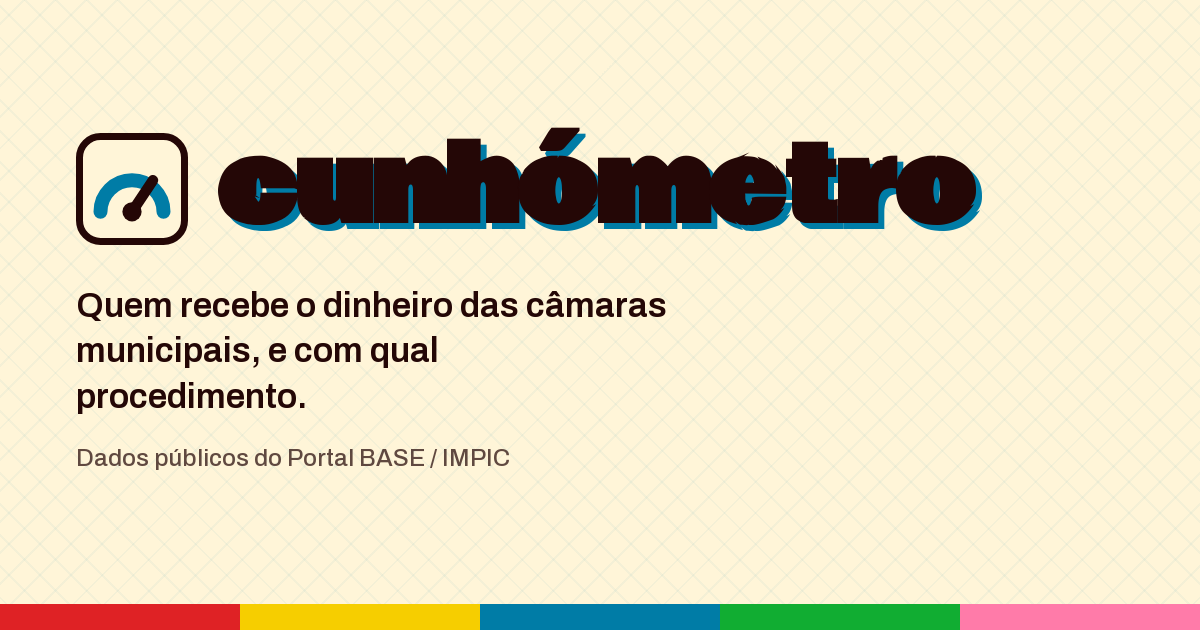
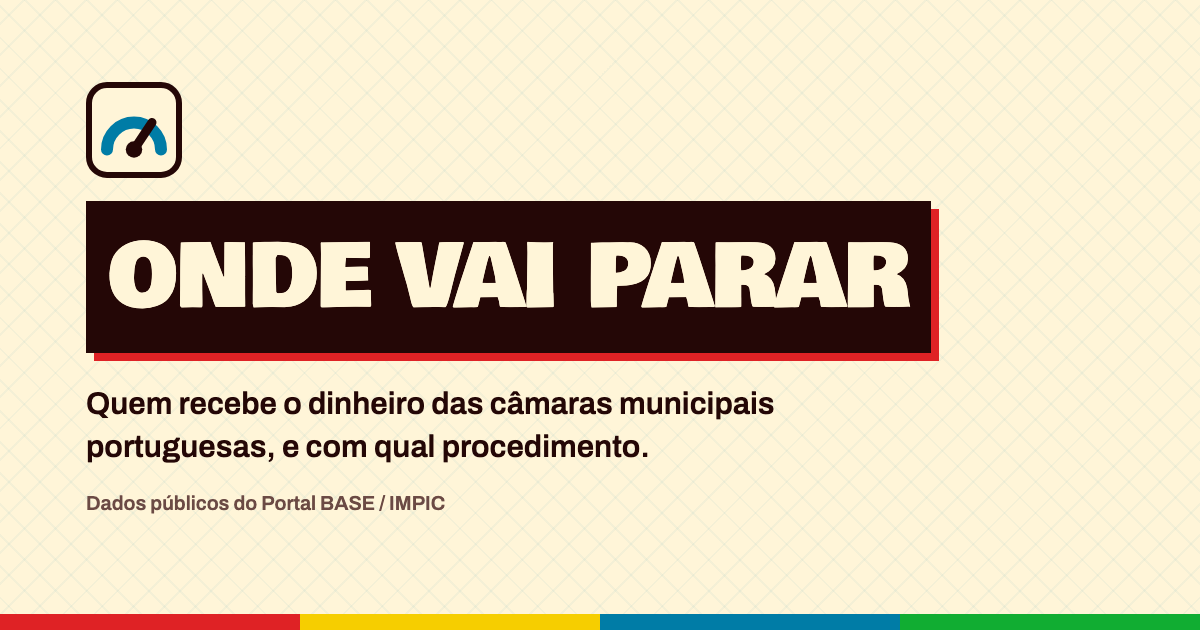
Índice de cunhas, a rebuilt embed, an API cache, and security.txt
The satire index is "Índice de cunhas" now, pairing with "Índice de risco" so
the two read as one family instead of a gauge beside a number. Chip label and
the EN side move with it; the /malandro easter egg route is untouched.

The OG image still said "cunhómetro". It is the one picture every WhatsApp, X,
Slack and LinkedIn unfurl of this site has ever shown, it was the pre-rebrand
file from the first commit, and nothing on the site or in CI could see it.
Rebuilt from the project's own tokens, fonts and favicon: the poster block,
cream on ink with the sangria drop, over the azulejo lattice, closed with the
four-colour stripe. Its source and a build script sit in scripts/og/ so the
next rename is a re-run rather than another two years of the wrong name.
Chrome paints only its viewport, which is ~86px shorter than the window it is
given, so a bare --screenshot left the stripe unpainted; build.mjs renders tall
and crops back to 1200x630.

nginx now caches the API. Measured against production: /rankings/parties 12.2s,
/rankings/districts 11.6s, /municipalities 5.3s, and the data moves once a day
at most. proxy_cache_lock matters more than the cache itself, because fifty
readers arriving at a cold twelve-second aggregate should cost postgres one
query, not fifty. Stale-while-revalidate keeps an expiry off the reader's path.
No purge step on deploy: every request carries the SvelteKit build id, so a new
[…]

diff --git a/scripts/og/og.html b/scripts/og/og.html
@@ -1,0 +1,52 @@
+<!doctype html>
+<!--
+  The source of web/static/og.png, the one image every WhatsApp, X, Slack and
+  LinkedIn unfurl of this site shows. It lives here because the PNG it produces
+  rots silently: the previous one still read "cunhómetro" long after the rebrand,
+  and nothing on the site or in CI could see it. Regenerate it after any change
+  to the name, the palette or the fonts.
+
+      node scripts/og/build.mjs
+
+  Chrome paints only its viewport, which is shorter than the window asked for,
+  so the page is rendered taller than 630 and cropped back. That is what
+  build.mjs is for; a bare --screenshot leaves the stripe unpainted.
+-->
+<html lang="pt-PT"><head><meta charset="utf-8">
+<style>
+@font-face { font-family:'Bowlby One'; src:url('../../web/static/fonts/taiPGmVuC4y96PFeqp8sqomI_L8zYK8.woff2') format('woff2'); font-weight:400; }
+@font-face { font-family:'Archivo'; src:url('../../web/static/fonts/k3kPo8UDI-1M0wlSV9XAw6lQkqWY8Q82sLydOxKsv4Rn.woff2') format('woff2'); font-weight:100 900; }
+:root{ --paper:#fff5d8; --ink:#240706; --ink-soft:#6b4a44;
+       --sangria:#df2225; --amarelo:#f6ce00; --azulejo:#007ca6; --manjerico:#11ad32; }
+*{ margin:0; padding:0; box-sizing:border-box; }
+html,body{ background:var(--paper); }
+.card{
+  position:relative; width:1200px; height:630px; overflow:hidden;
+  background-color:var(--paper);
+  background-image:
+    repeating-linear-gradient(45deg,  rgba(0,124,166,.045) 0 2px, transparent 2px 22px),
+    repeating-linear-gradient(-45deg, rgba(0,124,166,.045) 0 2px, transparent 2px 22px);
+  font-family:'Archivo',sans-serif; color:var(--ink);
+  display:flex; flex-direction:column; justify-content:center; padding:0 86px 34px; }
+.mark{ width:96px; height:96px; margin-bottom:34px; }
+.poster{ line-height:1.52; filter:drop-shadow(.1em .1em 0 var(--sangria));
+         font-family:'Bowlby One',sans-serif; font-size:86px; letter-spacing:-.01em; }
+.poster span{ display:inline; background:var(--ink); color:var(--paper);
+              -webkit-box-decoration-break:clone; box-decoration-break:clone;
+              padding:.1em .26em; text-transform:uppercase; }
+.sub{ margin-top:40px; font-size:31px; font-weight:600; line-height:1.4; max-width:880px; }
+.src{ margin-top:22px; font-size:20px; font-weight:600; color:var(--ink-soft); }
+.stripe{ position:absolute; left:0; right:0; bottom:0; height:16px; display:flex; }
+.stripe b{ flex:1; }
+.stripe b:nth-child(1){ background:var(--sangria); }
+.stripe b:nth-child(2){ background:var(--amarelo); }
+.stripe b:nth-child(3){ background:var(--azulejo); }
+.stripe b:nth-child(4){ background:var(--manjerico); }
+</style></head>
+<body><div class="card">
+  <img class="mark" src="../../web/static/favicon.svg" alt="">
+  <div class="poster"><span>Onde Vai Parar</span></div>
+  <p class="sub">Quem recebe o dinheiro das câmaras municipais portuguesas, e com qual procedimento.</p>
+  <p class="src">Dados públicos do Portal BASE / IMPIC</p>
+  <div class="stripe"><b></b><b></b><b></b><b></b></div>
+</div></body></html>

diff --git a/web/src/lib/messages.ts b/web/src/lib/messages.ts
@@ -242,7 +242,7 @@ const PT: Record<string, string> = {
 	// to say what the page holds without quoting a single figure: these files are
 	// rewritten on deploy and never again.
 	'muni.prerenderSections':
-		'Esta página reúne, para {name}: o índice de risco e o Malandrómetro, o mapa do dinheiro por concelho, a rede entre a câmara e as empresas que lhe ganham trabalho, a lista de fornecedores, as estatísticas por ano e por tipo de trabalho, e todos os contratos um a um.',
+		'Esta página reúne, para {name}: o índice de risco e o índice de cunhas, o mapa do dinheiro por concelho, a rede entre a câmara e as empresas que lhe ganham trabalho, a lista de fornecedores, as estatísticas por ano e por tipo de trabalho, e todos os contratos um a um.',
 	'muni.tab.overview': 'Visão geral',
 	'muni.tab.map': 'Mapa',
 	'muni.tab.network': 'Rede',
@@ -275,13 +275,13 @@ const PT: Record<string, string> = {
 	'muni.riskIndex': 'Índice de risco',
 	'muni.riskCaption':
 		'Média dos {n} indicadores mensuráveis neste período, todos em percentagem do dinheiro.',
-	'muni.satireIndex': 'Malandrómetro',
+	'muni.satireIndex': 'Índice de cunhas',
 	'muni.satireCaption':
 		'Os mesmos indicadores, mas com os mais reveladores a pesar mais: concursos com um só concorrente, dinheiro concentrado em poucas empresas, ajuste direto, contratos encostados ao limite e dinheiro a empresas novas.',
 	'muni.units':
 		'Dá para {bifanas} bifanas, ou {salarios} salários mínimos anuais.',
 	'muni.chipRisk': 'risco',
-	'muni.chipSatire': 'malandrómetro',
+	'muni.chipSatire': 'cunhas',
 	'muni.indicators': 'Indicadores',
 	'muni.whoGotMost': 'Quem recebeu mais',
 	'muni.groupBy': 'Agrupar por',
@@ -951,12 +951,12 @@ const EN: Record<string, string> = {
 	'muni.riskIndex': 'Risk index',
 	'muni.riskCaption':
 		'The average of the {n} indicators measurable in this period, all of them as a share of the money.',
-	'muni.satireIndex': 'Favour-meter',
+	'muni.satireIndex': 'Favours index',
 	'muni.satireCaption':
 		'The same indicators, with the most telling ones weighing more: tenders with a single bidder, money concentrated in few companies, direct awards, contracts hugging a ceiling, and money to brand new companies.',
 	'muni.units': 'That buys {bifanas} pork sandwiches, or {salarios} annual minimum wages.',
 	'muni.chipRisk': 'risk',
-	'muni.chipSatire': 'favour-meter',
+	'muni.chipSatire': 'favours',
 	'muni.indicators': 'Indicators',
 	'muni.whoGotMost': 'Who was paid most',
 	'muni.groupBy': 'Group by',

diff --git a/web/src/routes/[x+2e]well-known/security[x+2e]txt/+server.ts b/web/src/routes/[x+2e]well-known/security[x+2e]txt/+server.ts
@@ -1,0 +1,26 @@
+import { PUBLIC_SITE_URL } from '$env/static/public';
+import type { RequestHandler } from './$types';
+
+// RFC 9116. The route name encodes the two literal dots: SvelteKit skips any
+// directory starting with one, so `.well-known` has to be spelled `[x+2e]`.
+// nginx would also swallow this path, hence the ^~ exception in
+// default.conf.template that has to outrank the dotfile 404.
+export const prerender = true;
+
+const REPO = 'https://github.com/kreativermario/contratos-publicos';
+
+// Expires is mandatory and a stale one makes the file non-compliant, so it is
+// computed at build time rather than typed in and forgotten. A year is the
+// longest the RFC recommends; any deploy renews it.
+const expires = new Date(Date.now() + 365 * 864e5).toISOString().replace(/\.\d{3}Z$/, 'Z');
+
+export const GET: RequestHandler = async () =>
+	new Response(
+		`Contact: ${REPO}/security/advisories/new
+Policy: ${REPO}/blob/main/SECURITY.md
+Canonical: ${PUBLIC_SITE_URL}/.well-known/security.txt
+Preferred-Languages: pt, en
+Expires: ${expires}
+`,
+		{ headers: { 'content-type': 'text/plain' } }
+	);

diff --git a/web/src/lib/components/Landing.svelte b/web/src/lib/components/Landing.svelte
@@ -400,7 +400,19 @@
 		   its card taller than its neighbours */
 		grid-auto-rows: 1fr; gap: .5rem;
 	}
-	.grid li { margin: 0; display: flex; }
+	.grid li {
+		margin: 0; display: flex;
+		/* 308 cards, and the reader sees eight. content-visibility lets the
+		   browser skip layout and paint for the rows that are off screen, which
+		   is what pagination would buy, without what pagination would cost: the
+		   anchors all stay in the DOM, so the crawl path from the homepage to
+		   every /municipio/<nif> survives. That path is the whole reason these
+		   are anchors and not buttons (see below). `auto` in the intrinsic size
+		   means the real height is remembered once a card has been rendered, so
+		   the scrollbar stops resizing after the first pass. */
+		content-visibility: auto;
+		contain-intrinsic-size: auto 72px;
+	}
 	/* An anchor, not a button, and that is the whole of this site's SEO problem
 	   in one element: a crawler follows an href and cannot follow an onclick, so
 	   while these were buttons there was no path from the homepage to any

diff --git a/web/vite.config.ts b/web/vite.config.ts
@@ -23,6 +23,13 @@ export default defineConfig({
 
 			adapter: adapter({ fallback: 'index.html' }),
 
+			// '*' means every route with no dynamic segment, and the crawler finds
+			// the rest by following links. /.well-known/security.txt is neither:
+			// its directory is spelled [x+2e]well-known so SvelteKit does not skip
+			// it as a dotfile, which makes it look dynamic to '*', and nothing on
+			// the site links to it. Without this line the build fails outright.
+			prerender: { entries: ['*', '/.well-known/security.txt'] },
+
 			// Hash-based CSP: SvelteKit emits a hash for its one inline bootstrap
 			// script, so we never need 'unsafe-inline' for scripts. frame-ancestors
 			// is set by nginx instead - a meta-tag CSP cannot carry it.

diff --git a/CLAUDE.md b/CLAUDE.md
@@ -201,8 +201,9 @@ the joke can never disagree with the data.
 `satirical_index` returns `{score, band, tone, units}` and **no prose**: `band`
 is `clean | fishy | blatant`, `tone` is `ok | warn | critical`, and the client
 words one and paints the other. Two fields rather than one, so the words and the
-colour cannot disagree. Its rendered label is **Malandrómetro**
-(`muni.satireIndex`). The word "cunha" survives in body copy on purpose: it is
+colour cannot disagree. Its rendered label is **Índice de cunhas**
+(`muni.satireIndex`), which pairs with `muni.riskIndex`, "Índice de risco":
+the two indices read as one family rather than as a gauge next to a number. The word "cunha" survives in body copy on purpose: it is
 what a Portuguese reader actually calls the thing.
 
 **Every scored signal is a percentage of the money.** That is what makes the
@@ -483,7 +484,7 @@ Severity is `ok / warn / serious / critical` and always ships with a written
 label, never colour alone. A signal with no value renders "não medível" in grey
 with no bar: an unmeasurable signal must never borrow the green of a clean one.
 
-The Malandrómetro verdict carries its own `tone` so the words and the colour
+The índice de cunhas verdict carries its own `tone` so the words and the colour
 cannot disagree: clean reads green and says so, blatant reads red. Money is also
 counted in bifanas, at `BIFANA` euros each, and in annual minimum wages.
 Deliberately not per capita: no population figure ships with the contract data,

diff --git a/README.md b/README.md
@@ -114,7 +114,7 @@ silently deflates the index.
 
 - **`risk_index`**, the unweighted mean of whatever is measurable.
 - **`satirical_index`**, the same numbers with the more revealing ones weighted
-  heavier and worse manners. Rendered as the **Malandrómetro**. It returns
+  heavier and worse manners. Rendered as the **Índice de cunhas**. It returns
   `{score, band, tone, units}`: three bands tied to the same cutoffs the
   colours use, so the words and the colour can never disagree.
 
